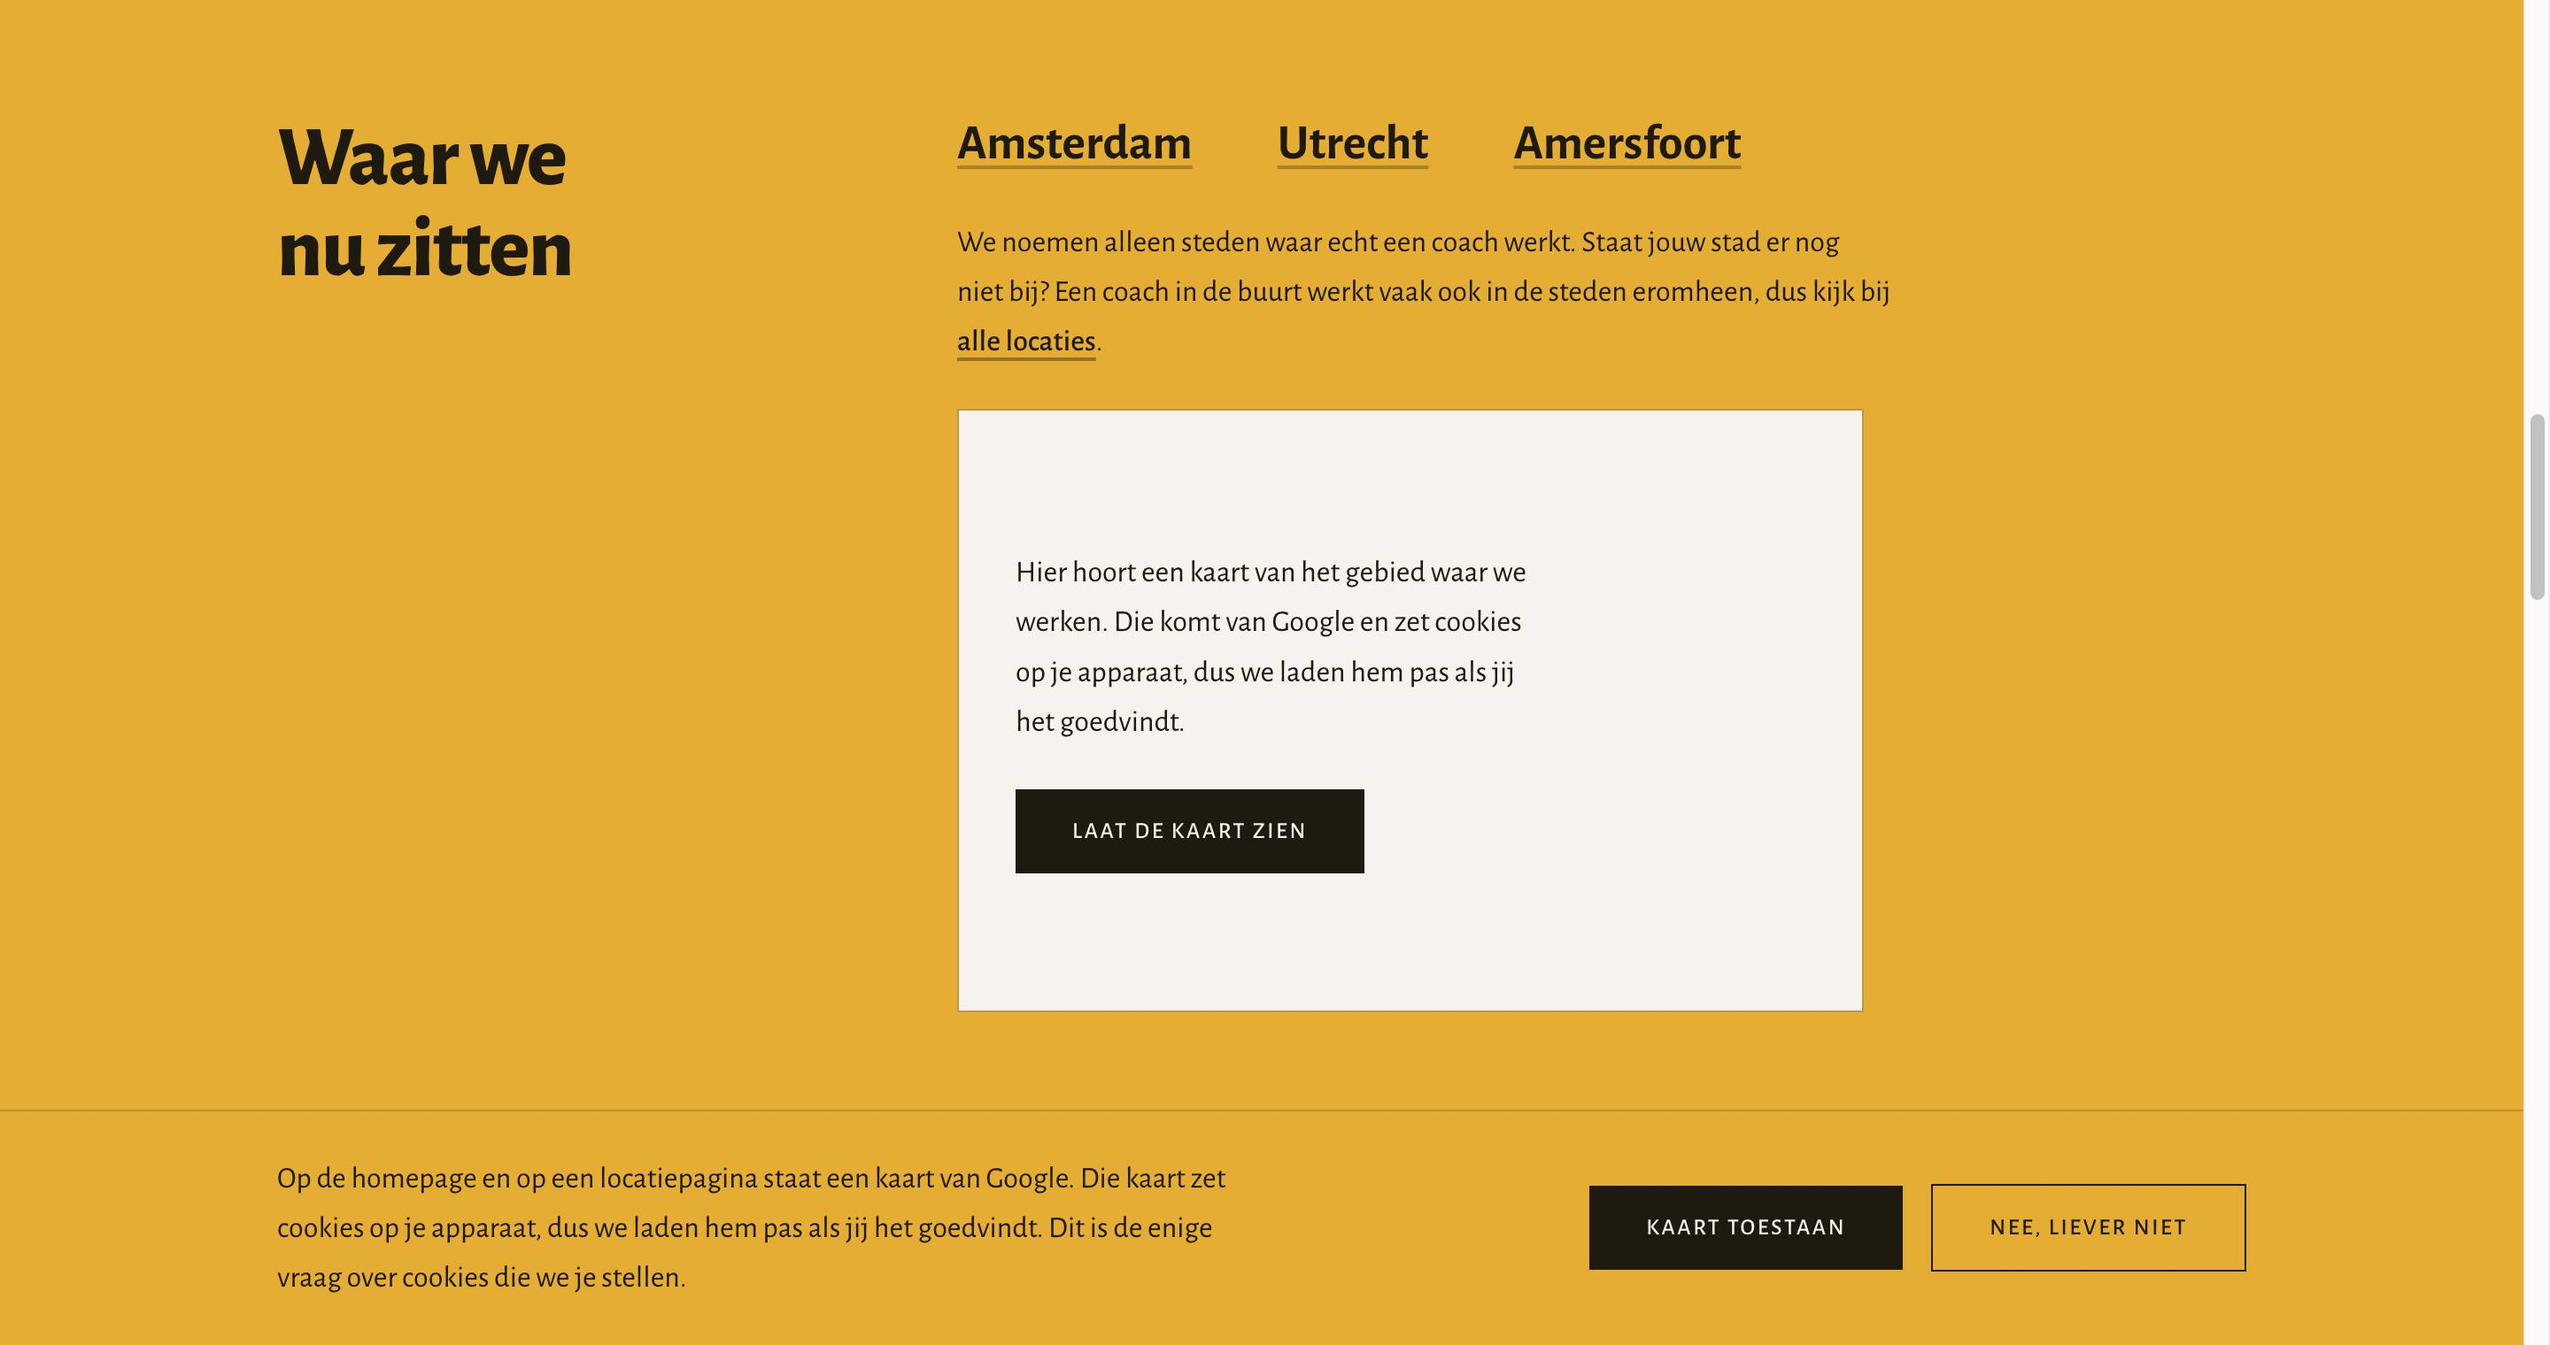
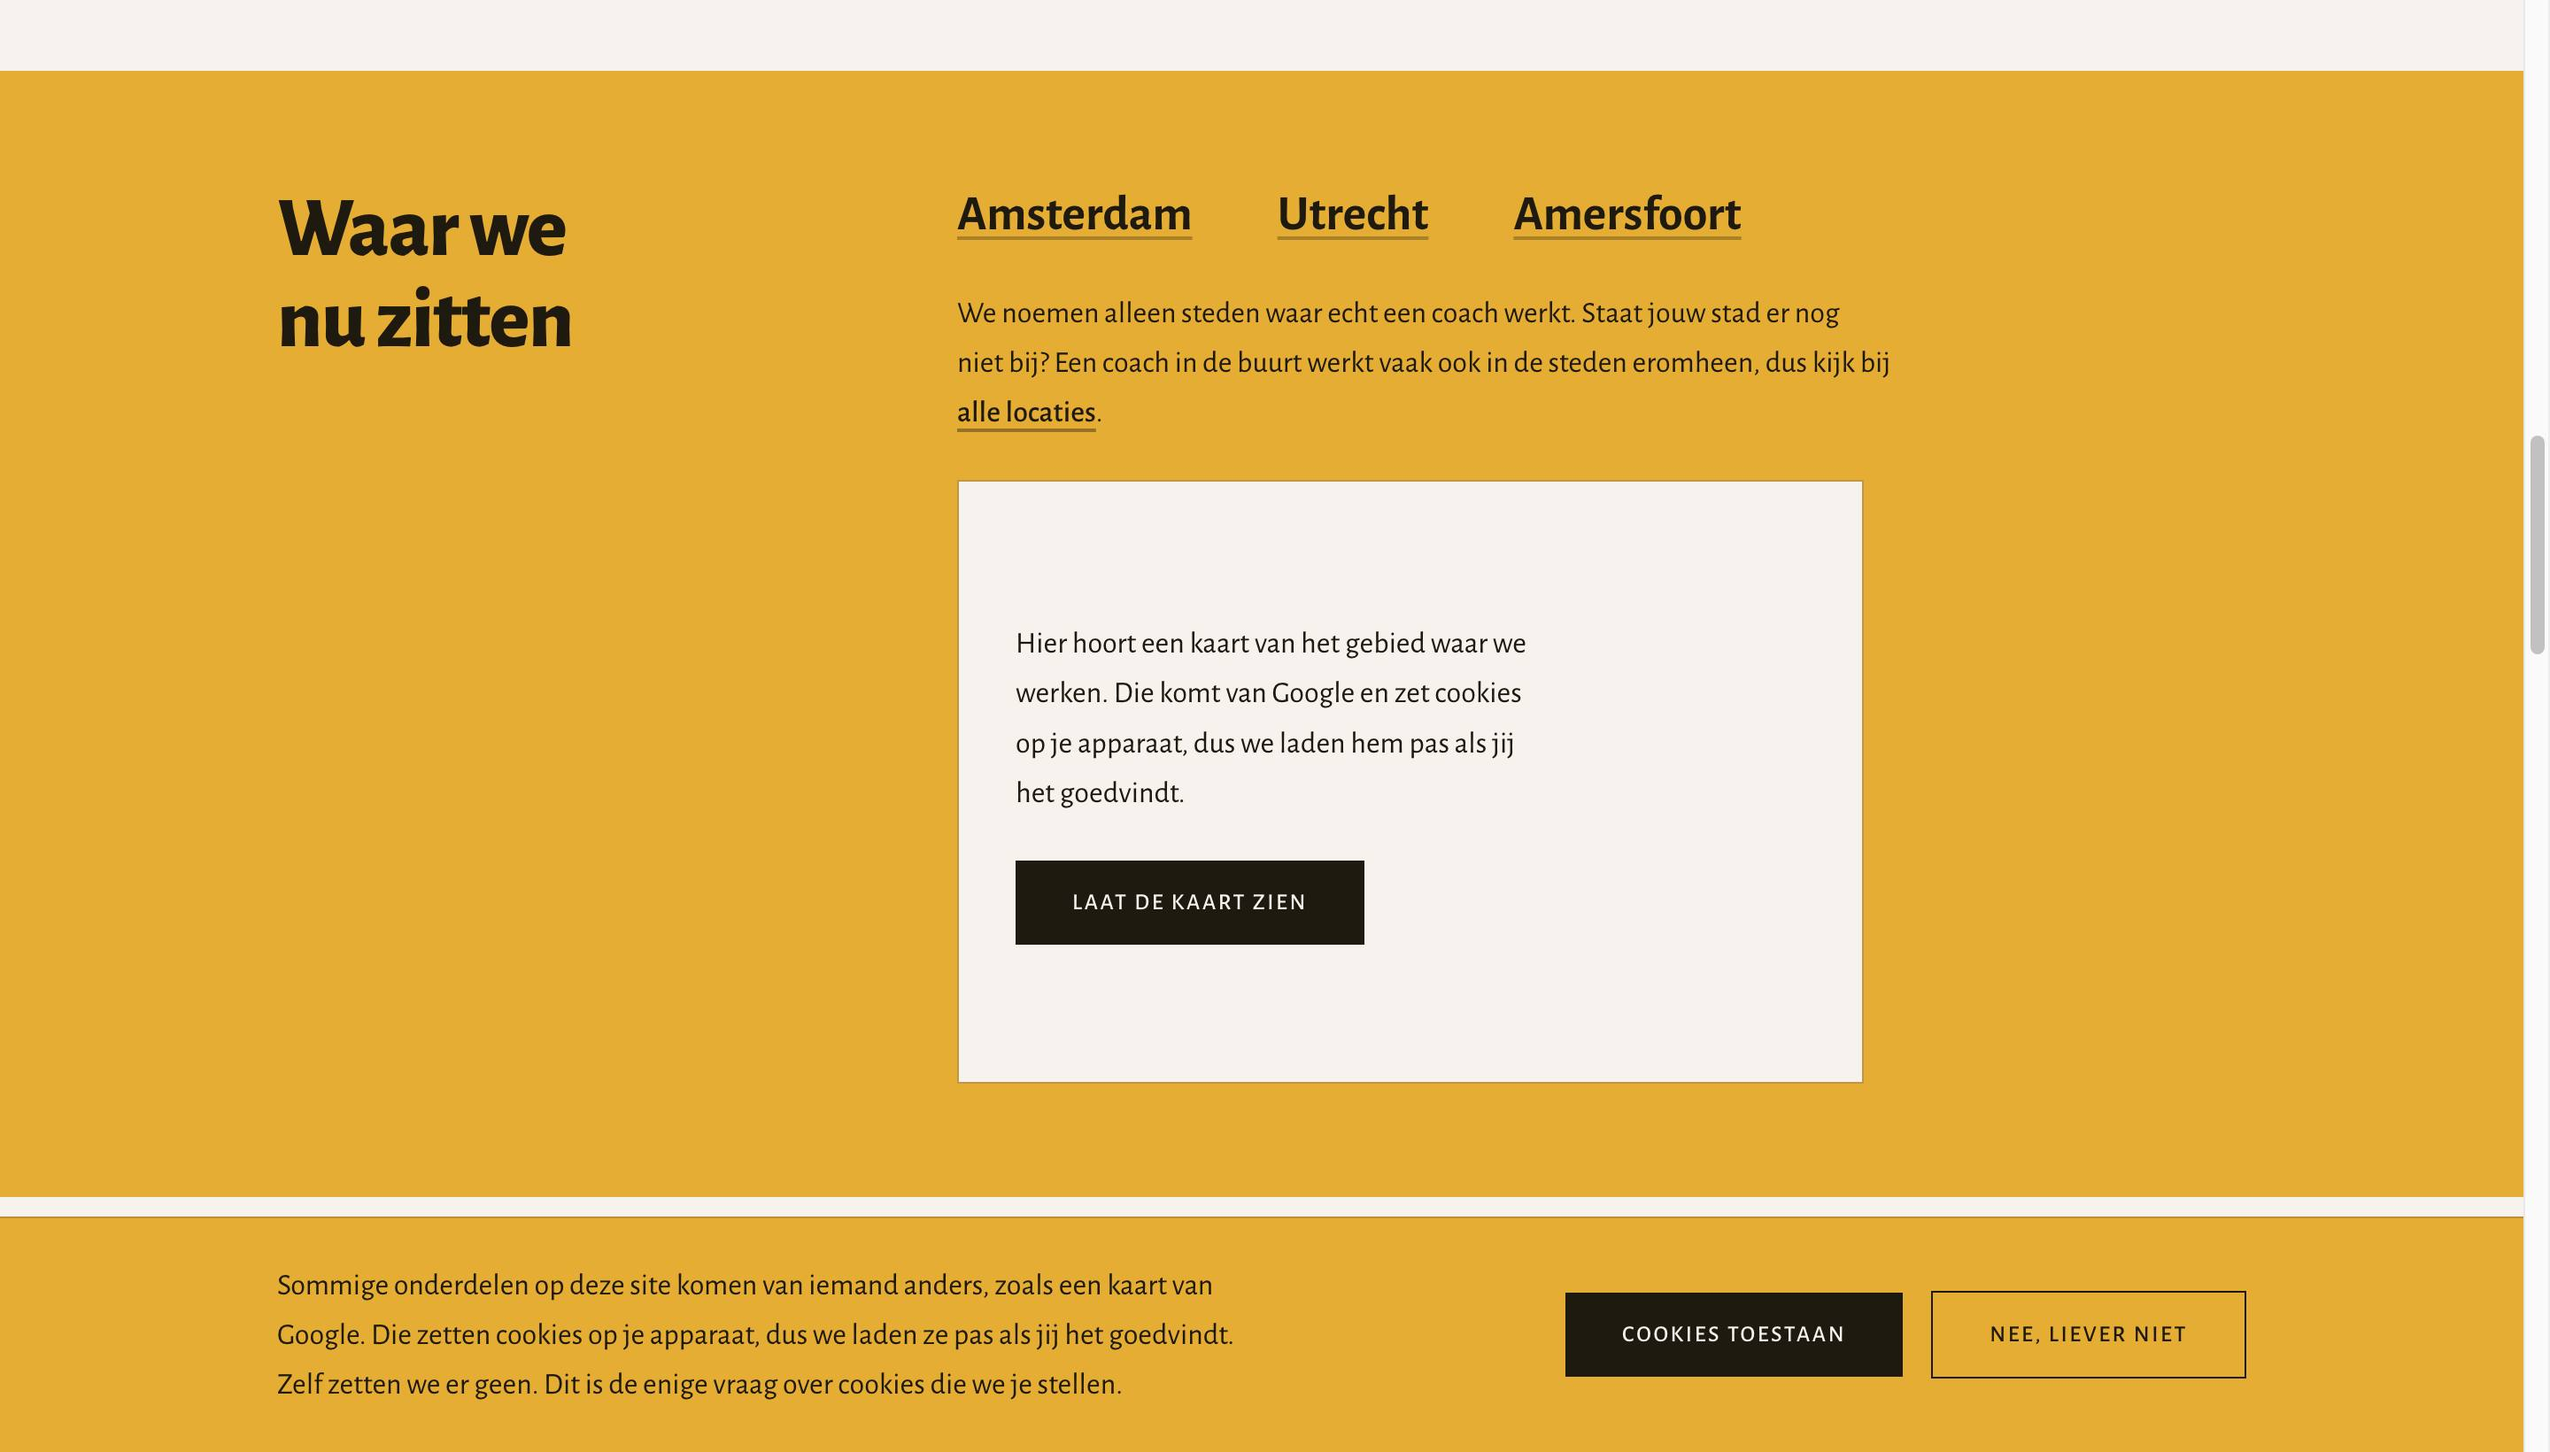
Ask the cookie question once, about anything of somebody else
The bar named the pages that carry a map. That is a sentence that has to
be edited for every embed we ever add, and it was already on its second
edit in one day.

It now says what the answer covers instead: parts of this site that come
from somebody else, with the Google map as the example and not as the
rule. A third party video or form is covered by this bar the day it is
wrapped in ConsentGate. No second question, no second bar.

The yes reads "Cookies toestaan". The storage key is `ska:cookies` and not
`ska:kaart-cookies`, for the same reason. An answer under the old key is
asked again, which costs nobody anything: the site has no visitors yet.

One new sentence, and it is checked: "Zelf zetten we er geen" is true
today. No analytics, no third party script, and the answer to this very
question lives in localStorage. Add anything that sets a cookie of ours
and that sentence goes first.

The button inside the map frame still says "Laat de kaart zien", because
there it is about the map that is missing, right there.

diff --git a/app/components/cookie-consent.tsx b/app/components/cookie-consent.tsx
@@ -56,14 +56,23 @@ export function CookieConsentBar() {
       <div
         className={`${shell} flex flex-col gap-6 py-6 sm:flex-row sm:items-center sm:justify-between sm:gap-10`}
       >
-        {/* Two maps now: one on the home page, and one on a city page where a
-            coach works. So this line names the home page as well. It stays
-            indefinite about the other one ("een locatiepagina"), because a city
-            without a coach has no map. See app/components/maps.tsx. */}
+        {/* THIS LINE NAMES NO PAGE, ON PURPOSE. It named the city page, and
+            then the home page as well, and it would have to be edited again for
+            every embed we add. It says what the answer covers instead: anything
+            of somebody else. The map is the example, not the rule, so a video
+            or a form of a third party is already covered here. Wrap it in
+            ConsentGate and this bar needs no new sentence.
+
+            "Zelf zetten we er geen" is true and it is checked: this site has no
+            analytics and no third party script, and the answer to this very
+            question lives in localStorage and not in a cookie (app/consent.ts).
+            Add anything that sets a cookie of our own and this sentence has to
+            go first. */}
         <p className="max-w-[62ch]">
-          Op de homepage en op een locatiepagina staat een kaart van Google. Die
-          kaart zet cookies op je apparaat, dus we laden hem pas als jij het
-          goedvindt. Dit is de enige vraag over cookies die we je stellen.
+          Sommige onderdelen op deze site komen van iemand anders, zoals een
+          kaart van Google. Die zetten cookies op je apparaat, dus we laden ze
+          pas als jij het goedvindt. Zelf zetten we er geen. Dit is de enige
+          vraag over cookies die we je stellen.
         </p>
 
         {/* Both answers get the same size, the same type and the same place.
@@ -75,7 +84,7 @@ export function CookieConsentBar() {
             onClick={() => writeConsent("granted")}
             type="button"
           >
-            Kaart toestaan
+            Cookies toestaan
           </button>
           <button
             className="border border-ink px-8 py-4 text-eyebrow uppercase transition-colors duration-150 ease-out-quart hover:bg-ink hover:text-paper"

diff --git a/app/consent.ts b/app/consent.ts
@@ -1,6 +1,9 @@
 /**
- * Cookie consent. One question, and today only one thing depends on it: may the
- * Google map load?
+ * Cookie consent. One question: may we load the parts of this site that come
+ * from somebody else? Today that is the two Google maps and nothing else, but
+ * the question is written wider than the map on purpose, so a video or a form
+ * of a third party needs no second bar and no second answer. Wrap it in
+ * ConsentGate and it is covered.
  *
  * WHY THE ANSWER LIVES IN localStorage AND NOT IN A COOKIE
  *
@@ -36,8 +39,15 @@ export type ConsentChoice = "granted" | "denied";
  */
 export type ConsentState = ConsentChoice | "unanswered" | "unknown";
 
-/** First party, one key, prefixed so it is recognisable in devtools. */
-export const consentStorageKey = "ska:kaart-cookies";
+/**
+ * First party, one key, prefixed so it is recognisable in devtools.
+ *
+ * It was "ska:kaart-cookies" until 2026-08-17. The question is not about the
+ * map any more, it is about anything of somebody else, and the key said the old
+ * thing. An answer under the old key is simply asked again, which costs nobody
+ * anything: the site has no visitors yet.
+ */
+export const consentStorageKey = "ska:cookies";
 
 /** Same tab: the bar and the map must agree the moment one of them is used. */
 const consentEventName = "ska:consent-change";

diff --git a/todos.md b/todos.md
@@ -351,8 +351,16 @@ write nothing and it falls back to the shared text.
 - [x] **The map on the home page.** Done on 2026-08-17. "Waar we nu zitten" now
       carries a map of the area where a coach works, under the city names.
       `app/components/city-map.tsx` became `app/components/maps.tsx` and holds
-      both maps, and the consent bar names the home page as well. The prediction
-      in this item held: `ConsentGate` needed no change at all.
+      both maps. The prediction in this item held: `ConsentGate` needed no
+      change at all.
+- [x] **The consent bar names no page any more.** Done on 2026-08-17. This item
+      asked for one more sentence in the bar for the second map. That is a
+      sentence that has to be edited for every embed we ever add, so the bar
+      says what the answer covers instead: anything that comes from somebody
+      else, with the map as the example. The yes now reads "Cookies toestaan",
+      and the storage key is `ska:cookies` and not `ska:kaart-cookies`. A third
+      party video or form is covered by the bar the day it is wrapped in
+      `ConsentGate`.
 - [ ] **Give a new city its point on the map.** `at` in `app/cities.ts` is
       required, so the compiler asks for it. Read it off Google Maps. The home
       page map works out its own centre and zoom from those points, so a coach
@@ -740,6 +748,7 @@ Do not re-open these without a reason.
 | The canonical host is `www.studiekeuzeadvies.nl`. Measured over the whole archive, not chosen | 2026-08-15 |
 | The cookie answer lives in `localStorage`, not in a cookie. A cookie would need `cookies()`, which makes every prerendered page dynamic, and the prerendered pages are what the purchase paid for | 2026-08-15 |
 | One question about cookies and no more. Two answers of equal weight, a bar and never a modal, and a no is never asked again | 2026-08-15 |
+| The bar asks the generic question and names no page. It covers everything that comes from somebody else, with the Google map as the example. It also says we set no cookie ourselves, which is true and has to stay true: no analytics, no third party script, and the answer itself in `localStorage` | 2026-08-17 |
 | **The launch gate is the domain switch, not the build.** We are in rapid development: we merge to production all day, and production is a Vercel URL. `studiekeuzeadvies.nl` still points at the old WordPress on AWS, so nothing we ship is reachable by a customer until we flip the domain. Therefore no build guard on `isPlaceholder`, and issue `#13` stays closed. A guard would only block our own merges to protect a URL nobody visits. The five invented coaches are checked by a person before the flip. A future review will find this and call it a defect: it is not, it is this row | 2026-08-16 |
 | A generated image may show a scene, never a person we present as one of ours. The home page hero is such a scene; the five stand-in portraits still may not go live | 2026-08-13 |
 | No `lastModified`, `changeFrequency` or `priority` in the sitemap. We can prove none of the three, and a wrong one costs trust | 2026-08-15 |
